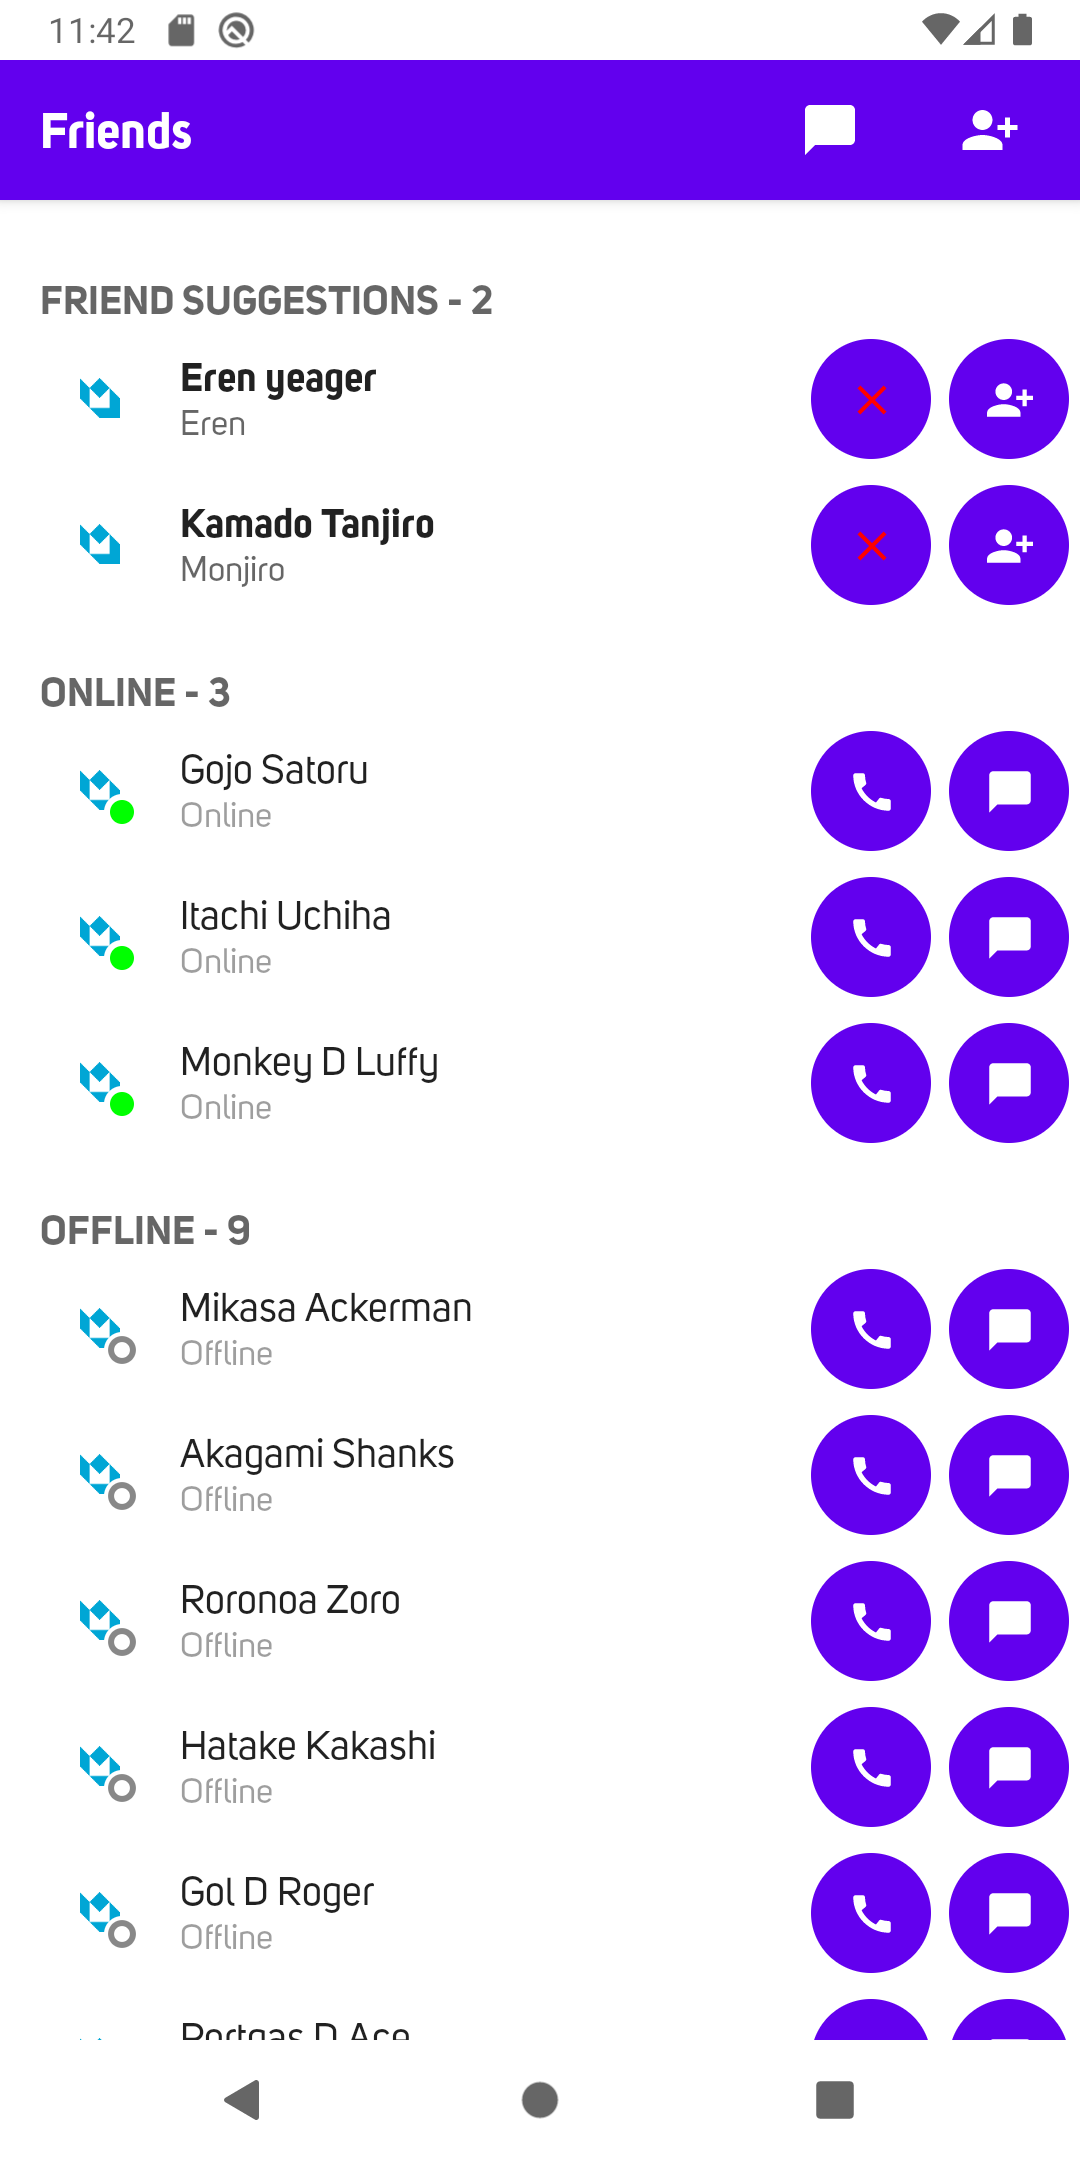
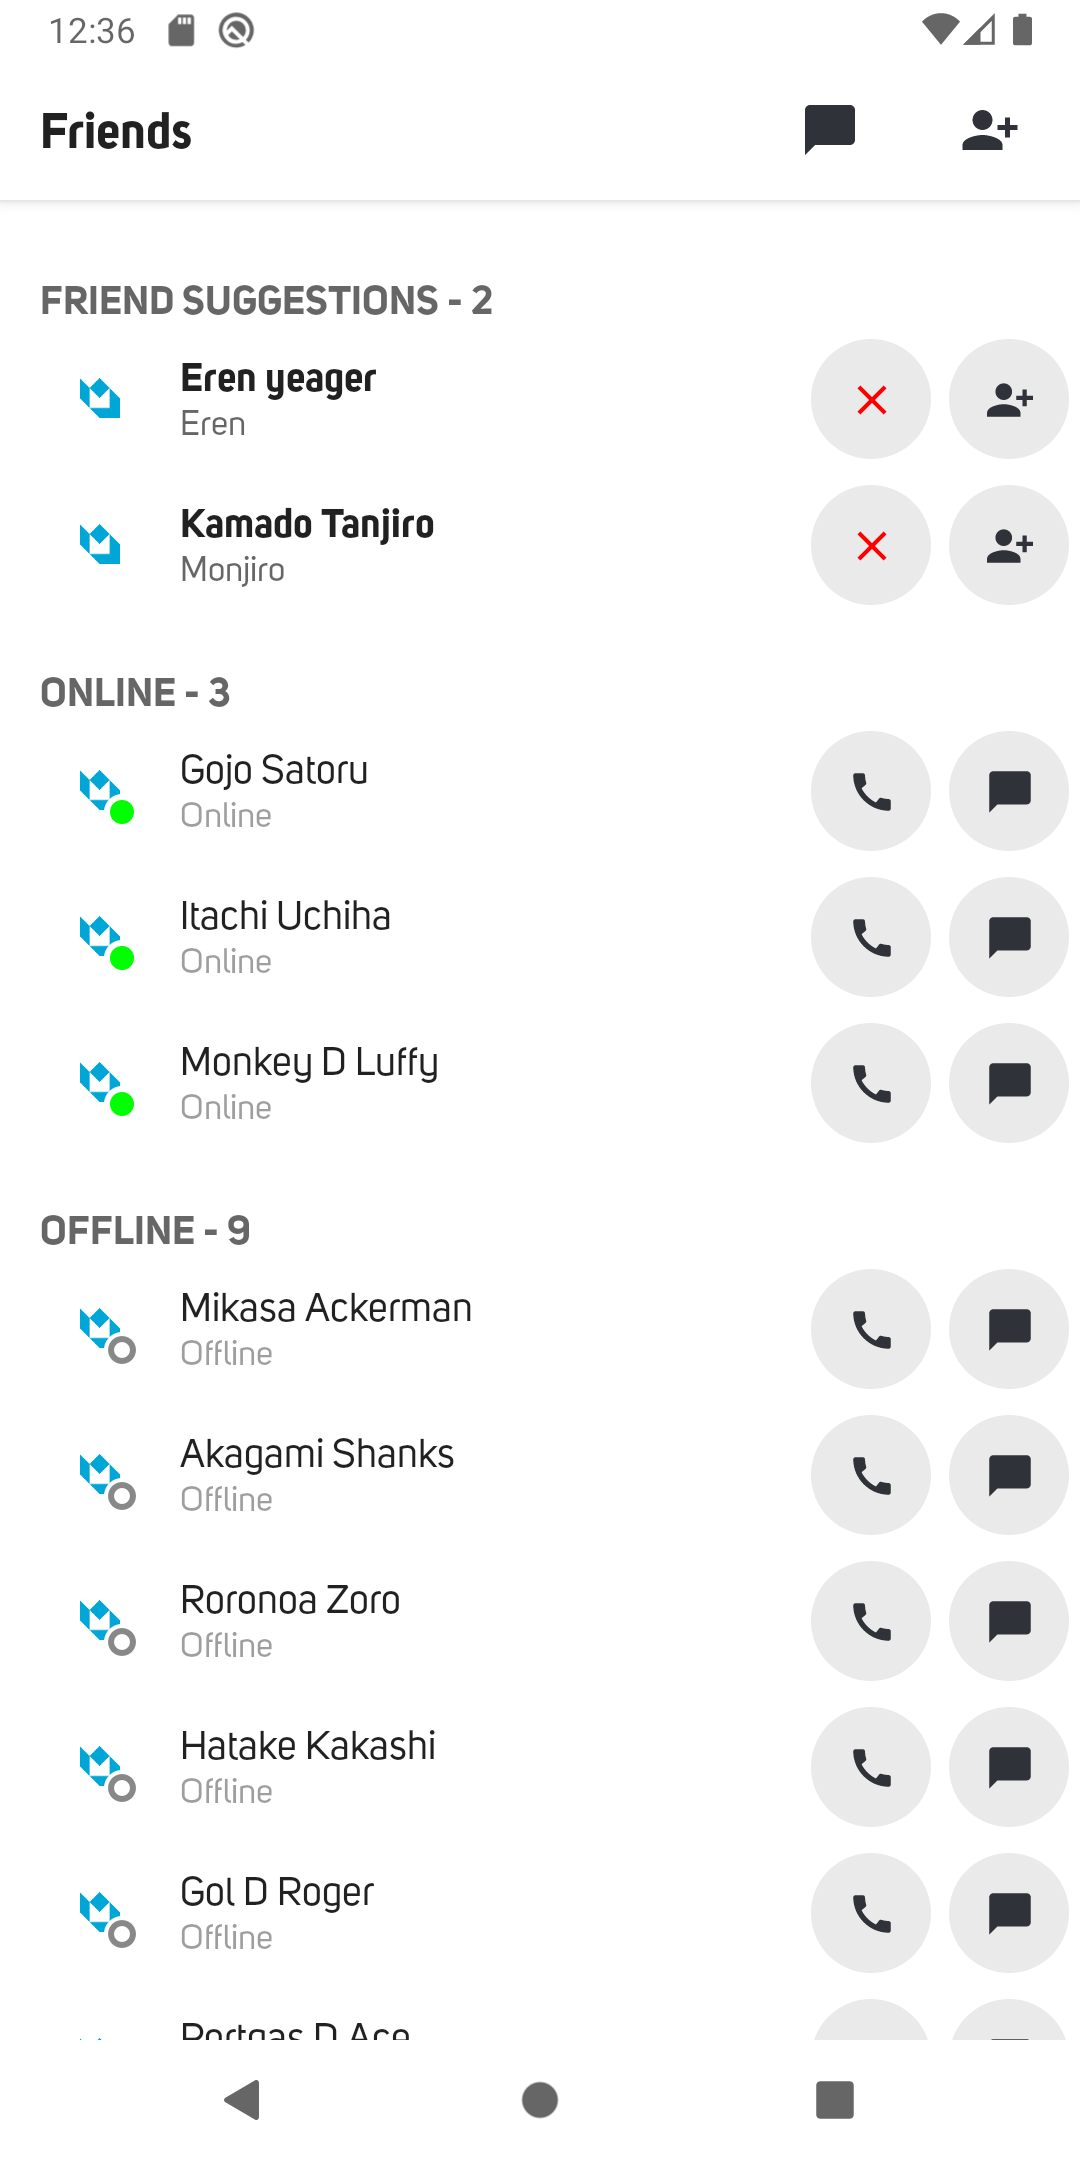
UI/fix colors in Light mode

diff --git a/app/src/main/java/dev/baseio/discordjetpackcompose/ui/routes/dashboard/friends/FriendsScreen.kt b/app/src/main/java/dev/baseio/discordjetpackcompose/ui/routes/dashboard/friends/FriendsScreen.kt
@@ -1,4 +1,4 @@
-package dev.baseio.discordjetpackcompose.ui.routes.dashboard.main
+package dev.baseio.discordjetpackcompose.ui.routes.dashboard.friends
 
 
 import androidx.compose.foundation.clickable
@@ -14,7 +14,6 @@ import androidx.compose.runtime.SideEffect
 import androidx.compose.runtime.collectAsState
 import androidx.compose.runtime.getValue
 import androidx.compose.ui.Modifier
-import androidx.compose.ui.graphics.Color
 import androidx.compose.ui.res.painterResource
 import androidx.compose.ui.res.stringResource
 import androidx.compose.ui.text.font.FontWeight
@@ -26,12 +25,9 @@ import dev.baseio.discordjetpackcompose.R
 import dev.baseio.discordjetpackcompose.navigator.ComposeNavigator
 import dev.baseio.discordjetpackcompose.ui.components.DiscordAppBar
 import dev.baseio.discordjetpackcompose.ui.components.DiscordScaffold
-import dev.baseio.discordjetpackcompose.ui.routes.dashboard.components.FriendRowComponent
-import dev.baseio.discordjetpackcompose.ui.theme.DirectMessageListTypography
-import dev.baseio.discordjetpackcompose.ui.theme.DiscordColorProvider
-import dev.baseio.discordjetpackcompose.ui.theme.Typography
+import dev.baseio.discordjetpackcompose.ui.routes.dashboard.friends.components.FriendRowComponent
+import dev.baseio.discordjetpackcompose.ui.theme.*
 import dev.baseio.discordjetpackcompose.viewmodels.FriendsViewModel
-import java.util.*
 
 @Composable
 fun FriendsScreen(
@@ -65,7 +61,7 @@ fun FriendsScreen(
     DiscordScaffold(
         scaffoldState = scaffoldState,
         navigator = composeNavigator,
-        backgroundColor = colors.discordBackgroundOne,
+
         topAppBar = {
             DiscordAppBar(title = {
                 Text(
@@ -73,17 +69,17 @@ fun FriendsScreen(
                     style = Typography.h3.copy(
                         fontWeight = FontWeight.Bold,
                         fontSize = 20.sp,
-                        color = Color.White
                     )
                 )
             },
+                backgroundColor = create_server_screen,
                 actions = {
                     Icon(
                         painter = painterResource(id = R.drawable.ic_chat_bubble),
                         contentDescription = stringResource(
                             id = R.string.invite_friend
                         ),
-                        tint = Color.White,
+                        tint = discord_icon_button,
                         modifier = Modifier.clickable {
 
                         }
@@ -94,7 +90,7 @@ fun FriendsScreen(
                         contentDescription = stringResource(
                             id = R.string.add_friend
                         ),
-                        tint = Color.White,
+                        tint = discord_icon_button,
                         modifier = Modifier.clickable {
 
                         }

diff --git a/app/src/main/java/dev/baseio/discordjetpackcompose/ui/routes/dashboard/friends/components/FriendRowComponent.kt b/app/src/main/java/dev/baseio/discordjetpackcompose/ui/routes/dashboard/friends/components/FriendRowComponent.kt
@@ -1,4 +1,4 @@
-package dev.baseio.discordjetpackcompose.ui.routes.dashboard.components
+package dev.baseio.discordjetpackcompose.ui.routes.dashboard.friends.components
 
 import androidx.compose.foundation.background
 import androidx.compose.foundation.layout.*
@@ -26,11 +26,10 @@ import androidx.compose.ui.unit.dp
 import androidx.compose.ui.unit.sp
 import dev.baseio.discordjetpackcompose.R
 import dev.baseio.discordjetpackcompose.entities.ChatUserEntity
-import dev.baseio.discordjetpackcompose.ui.theme.DirectMessageListTypography
-import dev.baseio.discordjetpackcompose.ui.theme.DiscordColorProvider
 import coil.compose.AsyncImage
 import coil.request.ImageRequest
-import dev.baseio.discordjetpackcompose.ui.theme.primarySurface
+import dev.baseio.discordjetpackcompose.ui.routes.dashboard.components.OnlineIndicator
+import dev.baseio.discordjetpackcompose.ui.theme.*
 
 @Composable
 fun FriendRowComponent(chatUserEntity: ChatUserEntity, isFriend: Boolean) {
@@ -81,11 +80,11 @@ fun FriendRowComponent(chatUserEntity: ChatUserEntity, isFriend: Boolean) {
 
 @Composable
 fun ActionButton(
-    background: Color = DiscordColorProvider.colors.primarySurface,
+    background: Color = discord_icon_button_bg,
     icon: ImageVector? = null,
     painterResource: Int? = null,
     contentDescription: String,
-    tintColor: Color = Color.White
+    tintColor: Color = icon_button
 ) {
     IconButton(
         onClick = { }, modifier = Modifier

diff --git a/app/src/main/java/dev/baseio/discordjetpackcompose/ui/routes/dashboard/DashboardRoute.kt b/app/src/main/java/dev/baseio/discordjetpackcompose/ui/routes/dashboard/DashboardRoute.kt
@@ -8,8 +8,8 @@ import dev.baseio.discordjetpackcompose.navigator.DiscordRoute
 import dev.baseio.discordjetpackcompose.navigator.DiscordScreen
 import dev.baseio.discordjetpackcompose.ui.routes.dashboard.createServer.CreateServer
 import dev.baseio.discordjetpackcompose.ui.routes.dashboard.main.DashboardScreen
-import dev.baseio.discordjetpackcompose.ui.routes.dashboard.main.FriendsScreen
-import dev.baseio.discordjetpackcompose.ui.routes.dashboard.main.InviteScreen
+import dev.baseio.discordjetpackcompose.ui.routes.dashboard.friends.FriendsScreen
+import dev.baseio.discordjetpackcompose.ui.routes.dashboard.invite.InviteScreen
 
 fun NavGraphBuilder.dashboardRoute(
     composeNavigator: ComposeNavigator,

diff --git a/app/src/main/java/dev/baseio/discordjetpackcompose/ui/theme/Color.kt b/app/src/main/java/dev/baseio/discordjetpackcompose/ui/theme/Color.kt
@@ -807,3 +807,24 @@ val discord_dialog_cancel_button_text
         Color(0xFF4F5761)
     }
 val discord_dialog_button_bg = Color(0xFF5864F1)
+
+val discord_icon_button
+    @Composable get() = if (isSystemInDarkTheme()) {
+        Color(0xFFFFFFFF)
+    } else {
+        Color(0xFF2f3238)
+    }
+
+val icon_button
+    @Composable get() = if (isSystemInDarkTheme()) {
+        Color(0xFFFFFFFF)
+    } else {
+        Color(0xFF2f3238)
+    }
+
+val discord_icon_button_bg
+    @Composable get() = if (isSystemInDarkTheme()) {
+        Color(0xFF2f3238)
+    } else {
+        Color(0xFFeaeaeb)
+    }

diff --git a/app/src/main/java/dev/baseio/discordjetpackcompose/ui/routes/dashboard/invite/InviteScreen.kt b/app/src/main/java/dev/baseio/discordjetpackcompose/ui/routes/dashboard/invite/InviteScreen.kt
@@ -1,4 +1,4 @@
-package dev.baseio.discordjetpackcompose.ui.routes.dashboard.main
+package dev.baseio.discordjetpackcompose.ui.routes.dashboard.invite
 
 import androidx.compose.foundation.layout.*
 import androidx.compose.material.*
